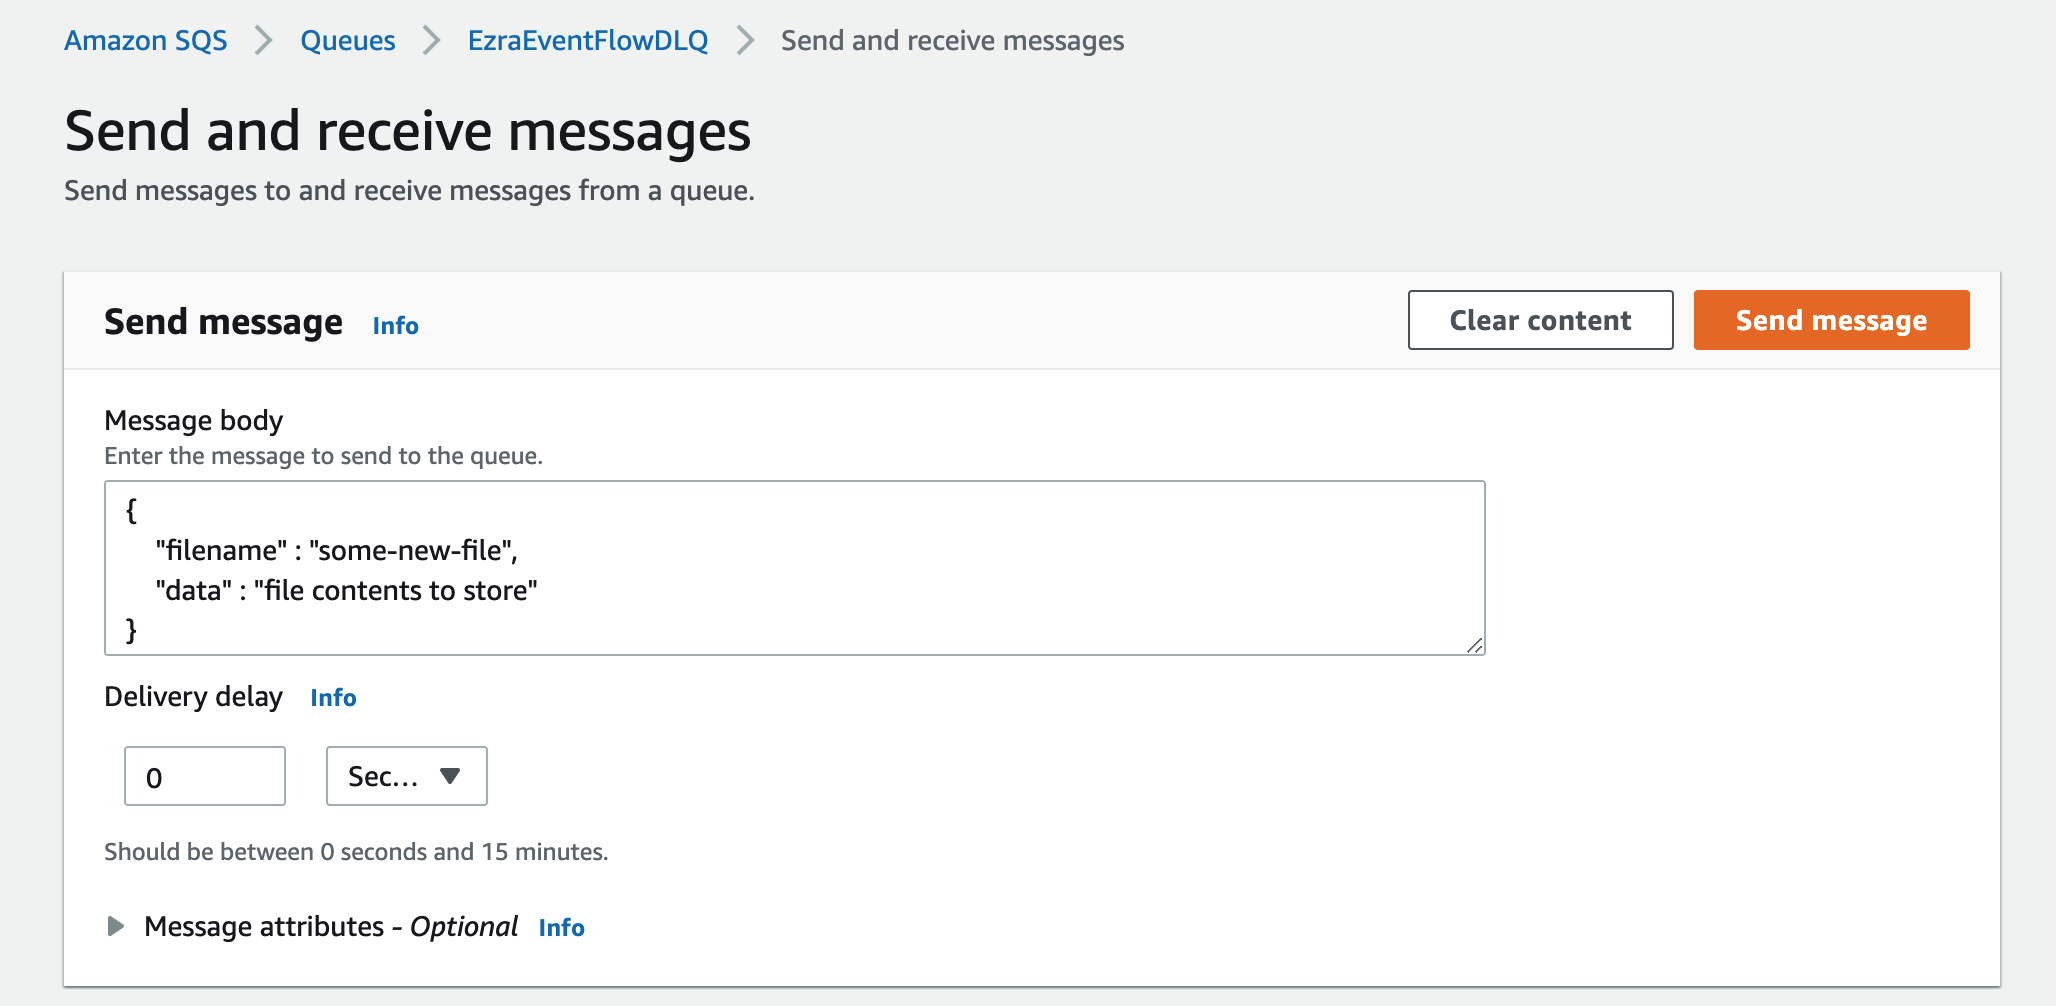
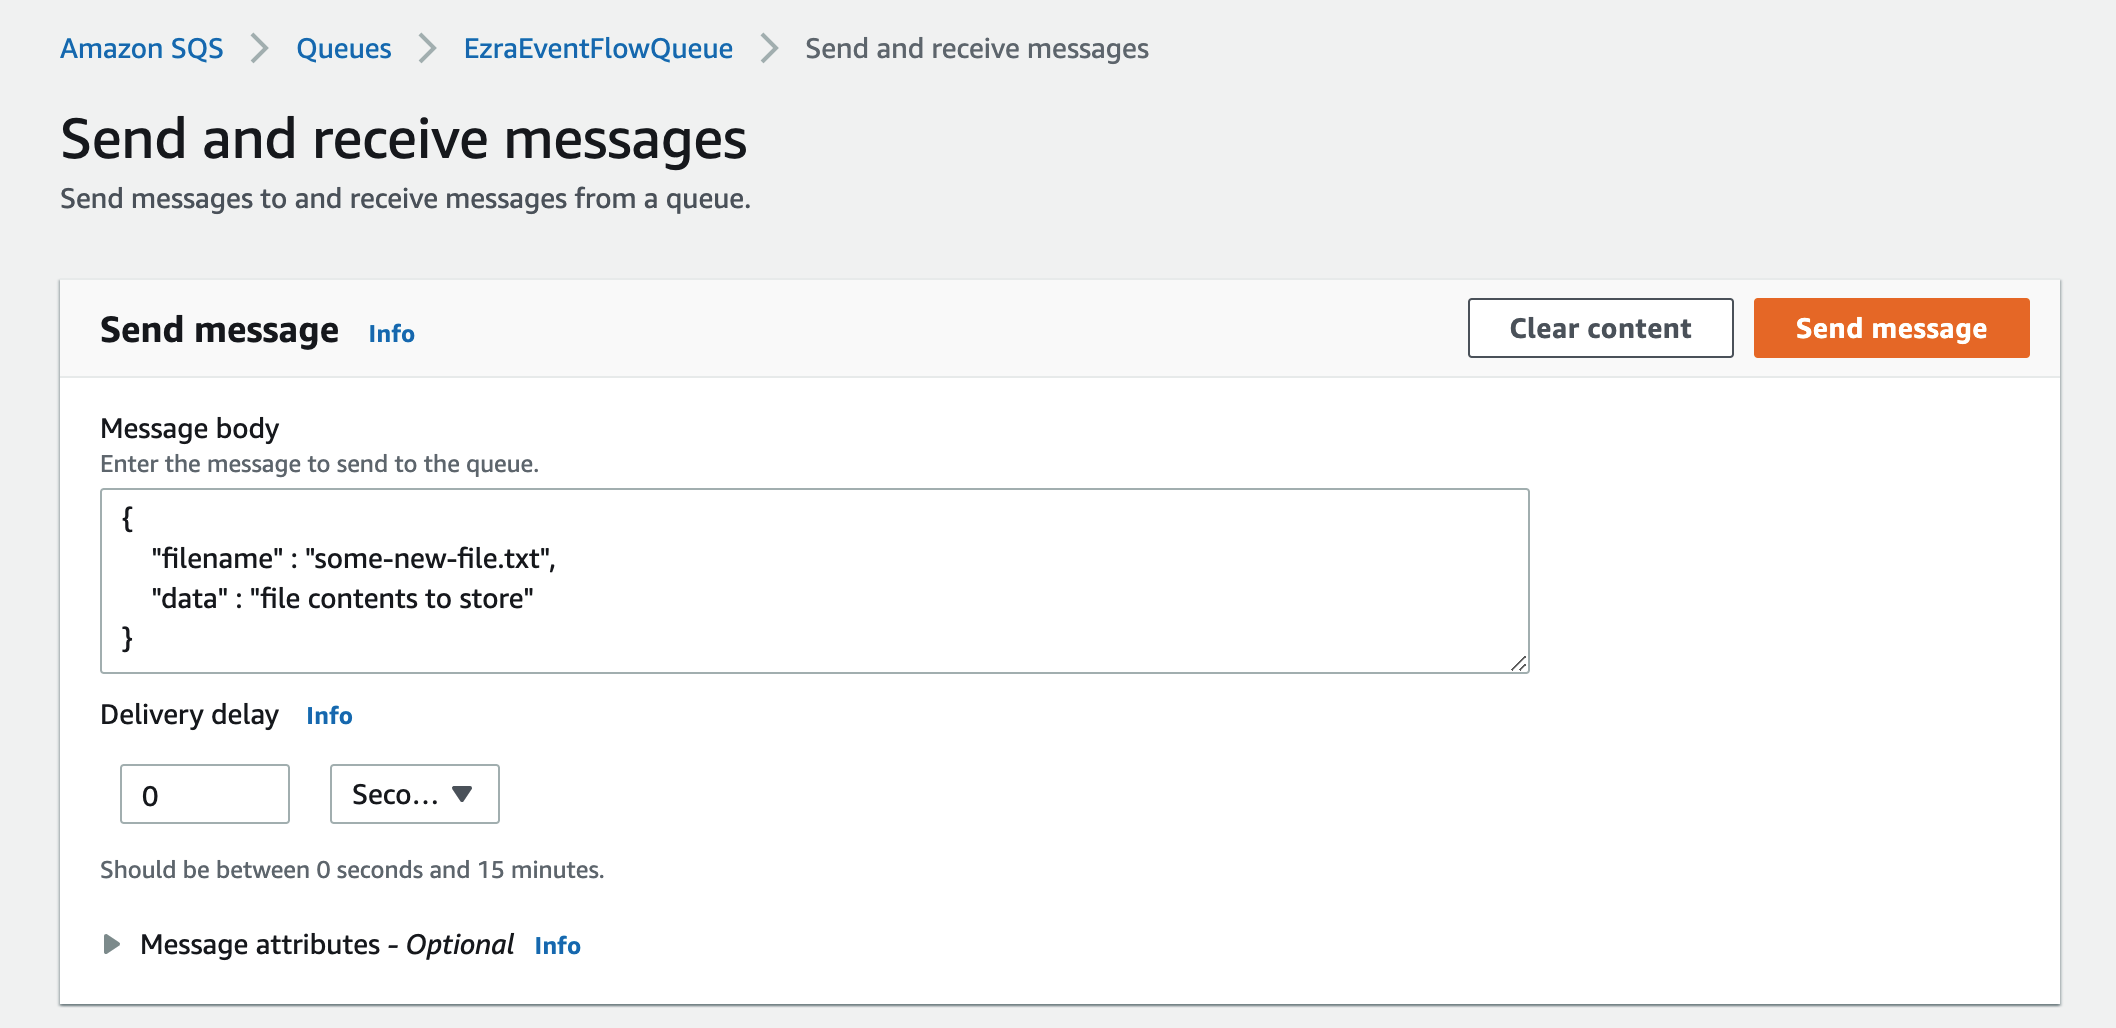
update sqs image to align with text

diff --git a/_pages/event-flows/amazon-sqs.md b/_pages/event-flows/amazon-sqs.md
@@ -215,7 +215,7 @@ In the **Send and receive messages** page, in the **Message body** field, enter 
 
 ```
 {
-    "filename" : "some-new-file",
+    "filename" : "some-new-file.txt",
     "data" : "file contents to store"
 }
 ```
@@ -225,3 +225,5 @@ In the **Send and receive messages** page, in the **Message body** field, enter 
 Click **Send Message** and the payload will be consumed by Algorithmia and sent to the configured algorithm as input for execution.
 
 To verify, open the **Data Sources** menu item in the left sidebar and navigate to the `COLLECTION_NAME` data collection that you configured above as the destination for your algorithm to write data. Based on the payload shown above in the **Message body** section, the collection should contain the file `some-new-file`, with contents equal to `file contents to store`.
+
+<img src="{{site.cdnurl}}{{site.baseurl}}/images/post_images/eventlisteners/amazon-sqs-file-contents.png">
